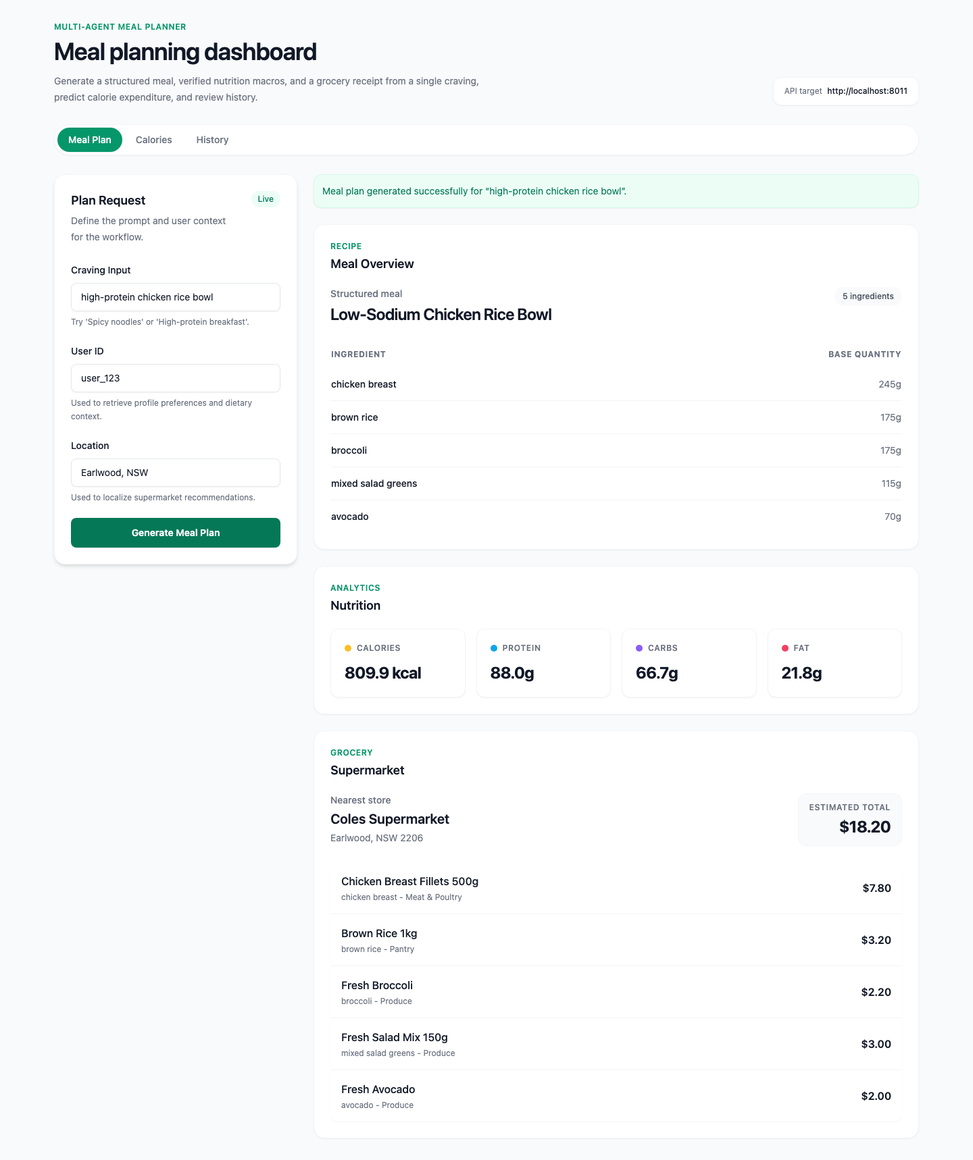
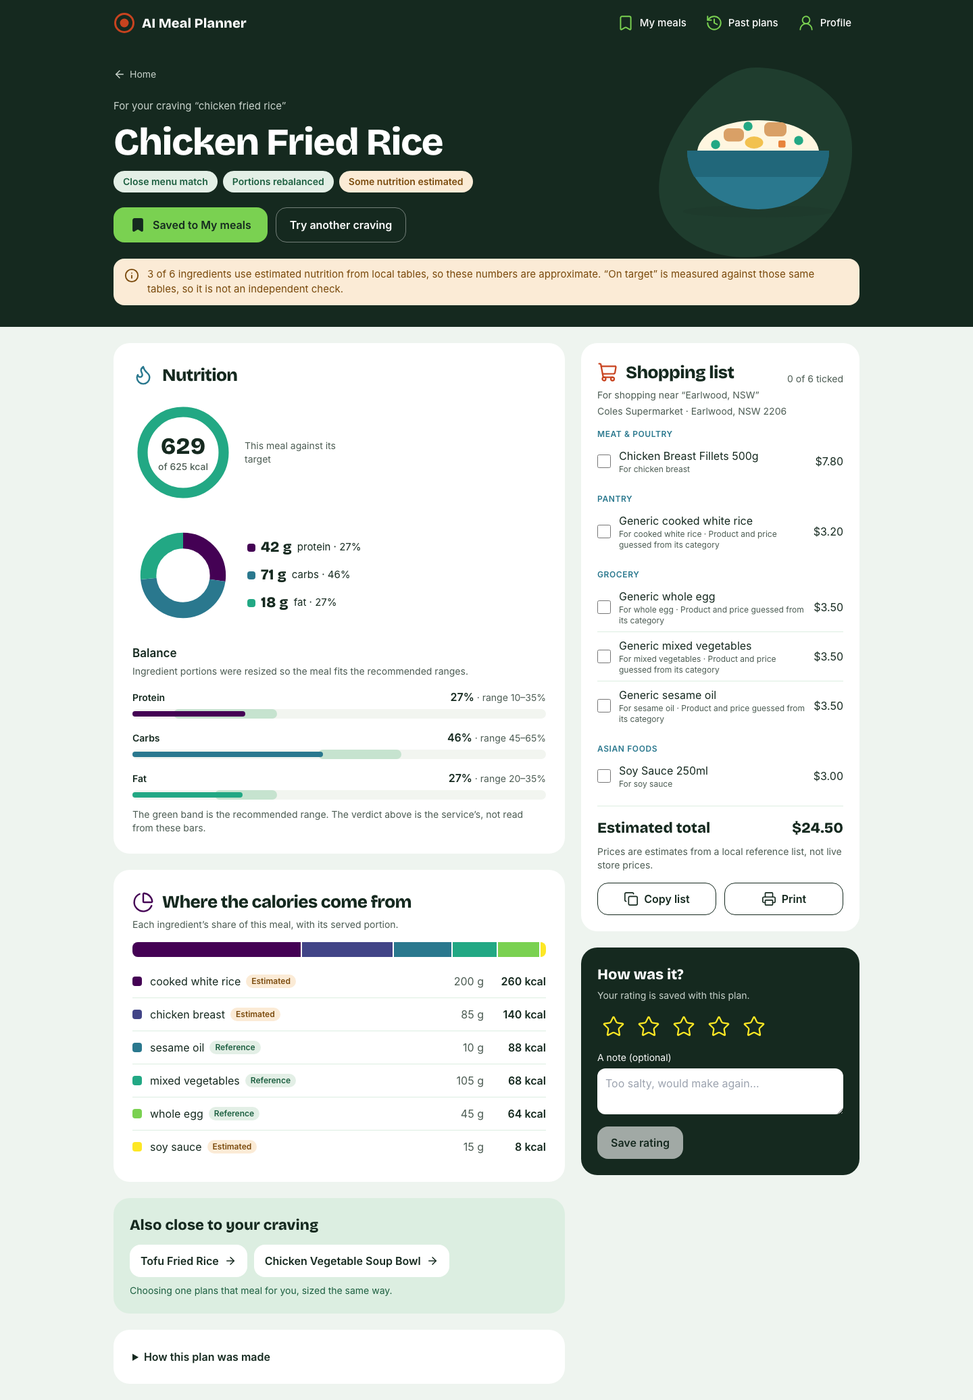
docs: React is the main app; Flat kitchen design and DEC-36/37

diff --git a/frontend/src/components/ui/EmptyState.jsx b/frontend/src/components/ui/EmptyState.jsx
@@ -2,19 +2,19 @@ import SparkleIcon from './SparkleIcon'
 
 function EmptyState({ isLoading, loadingTitle, loadingBody, idleTitle, idleBody }) {
   return (
-    <section className="flex min-h-[420px] items-center justify-center rounded-2xl border border-gray-100 bg-white p-8 shadow-sm">
+    <section className="flex min-h-[420px] items-center justify-center rounded-3xl border border-transparent bg-white p-8">
       <div className="mx-auto max-w-md text-center">
-        <div className="mx-auto flex h-14 w-14 items-center justify-center rounded-2xl bg-emerald-50 text-emerald-600 shadow-sm">
+        <div className="mx-auto flex h-14 w-14 items-center justify-center rounded-2xl bg-tint text-carbs">
           {isLoading ? (
-            <span className="h-6 w-6 animate-spin rounded-full border-2 border-emerald-600 border-t-transparent" />
+            <span className="h-6 w-6 animate-spin rounded-full border-2 border-carbs border-t-transparent" />
           ) : (
             <SparkleIcon />
           )}
         </div>
-        <h2 className="mt-5 text-xl font-semibold text-gray-900">
+        <h2 className="mt-5 text-xl font-semibold text-ink">
           {isLoading ? loadingTitle : idleTitle}
         </h2>
-        <p className="mt-3 text-sm leading-6 text-gray-500">{isLoading ? loadingBody : idleBody}</p>
+        <p className="mt-3 text-sm leading-6 text-muted">{isLoading ? loadingBody : idleBody}</p>
       </div>
     </section>
   )

diff --git a/frontend/src/components/ui/InputField.jsx b/frontend/src/components/ui/InputField.jsx
@@ -7,12 +7,12 @@ function InputField({ error, helperText, label, ...inputProps }) {
   const describedBy = [error && errorId, helperText && helperId].filter(Boolean).join(' ')
   return (
     <label className="block">
-      <span className="text-sm font-medium text-gray-900">{label}</span>
+      <span className="text-sm font-medium text-ink">{label}</span>
       <input
         aria-describedby={describedBy || undefined}
         aria-invalid={error ? 'true' : undefined}
-        className={`mt-2 w-full rounded-lg border bg-white px-3.5 py-2.5 text-sm text-gray-900 shadow-sm outline-none transition-all duration-200 placeholder:text-gray-400 focus:border-transparent focus:ring-2 focus:ring-emerald-500 ${
-          error ? 'border-accent-text' : 'border-gray-200'
+        className={`mt-2 w-full rounded-lg border bg-white px-3.5 py-2.5 text-sm text-ink outline-none transition-all duration-200 placeholder:text-muted focus:border-transparent focus:ring-2 focus:ring-ink ${
+          error ? 'border-accent-text' : 'border-line'
         }`}
         {...inputProps}
       />
@@ -22,7 +22,7 @@ function InputField({ error, helperText, label, ...inputProps }) {
         </span>
       )}
       {helperText && (
-        <span className="mt-1.5 block text-xs leading-5 text-gray-500" id={helperId}>
+        <span className="mt-1.5 block text-xs leading-5 text-muted" id={helperId}>
           {helperText}
         </span>
       )}

diff --git a/frontend/src/components/ui/SelectField.jsx b/frontend/src/components/ui/SelectField.jsx
@@ -1,9 +1,9 @@
 function SelectField({ helperText, label, options, ...selectProps }) {
   return (
     <label className="block">
-      <span className="text-sm font-medium text-gray-900">{label}</span>
+      <span className="text-sm font-medium text-ink">{label}</span>
       <select
-        className="mt-2 w-full rounded-lg border border-gray-200 bg-white px-3.5 py-2.5 text-sm text-gray-900 shadow-sm outline-none transition-all duration-200 focus:border-transparent focus:ring-2 focus:ring-emerald-500"
+        className="mt-2 w-full rounded-lg border border-line bg-white px-3.5 py-2.5 text-sm text-ink outline-none transition-all duration-200 focus:border-transparent focus:ring-2 focus:ring-ink"
         {...selectProps}
       >
         {options.map((option) => (
@@ -12,7 +12,7 @@ function SelectField({ helperText, label, options, ...selectProps }) {
           </option>
         ))}
       </select>
-      {helperText && <span className="mt-1.5 block text-xs leading-5 text-gray-500">{helperText}</span>}
+      {helperText && <span className="mt-1.5 block text-xs leading-5 text-muted">{helperText}</span>}
     </label>
   )
 }

diff --git a/frontend/src/components/ui/SectionCard.jsx b/frontend/src/components/ui/SectionCard.jsx
@@ -1,13 +1,13 @@
 function SectionCard({ eyebrow, title, children, className = '' }) {
   return (
-    <section className={`rounded-2xl border border-gray-100 bg-white p-6 shadow-sm ${className}`}>
+    <section className={`rounded-3xl border border-transparent bg-white p-6 ${className}`}>
       <div>
         {eyebrow && (
-          <p className="text-xs font-semibold uppercase tracking-wider text-emerald-600">
+          <p className="text-xs font-semibold uppercase tracking-wider text-carbs">
             {eyebrow}
           </p>
         )}
-        <h2 className="mt-1 text-lg font-semibold text-gray-900">{title}</h2>
+        <h2 className="mt-1 text-lg font-semibold text-ink">{title}</h2>
       </div>
       <div className="mt-5">{children}</div>
     </section>

diff --git a/frontend/src/components/ui/StatCard.jsx b/frontend/src/components/ui/StatCard.jsx
@@ -1,11 +1,11 @@
 function StatCard({ dot, label, value }) {
   return (
-    <div className="rounded-xl border border-gray-100 bg-white p-5 shadow-sm">
+    <div className="rounded-xl border border-transparent bg-white p-5">
       <div className="flex items-center gap-2">
         <span className={`h-2.5 w-2.5 rounded-full ${dot}`} />
-        <p className="text-xs font-semibold uppercase tracking-wider text-gray-500">{label}</p>
+        <p className="text-xs font-semibold uppercase tracking-wider text-muted">{label}</p>
       </div>
-      <p className="mt-3 text-2xl font-bold tracking-tight text-gray-900">{value}</p>
+      <p className="mt-3 text-2xl font-bold tracking-tight text-ink">{value}</p>
     </div>
   )
 }

diff --git a/frontend/src/features/calories/CaloriesTab.jsx b/frontend/src/features/calories/CaloriesTab.jsx
@@ -62,9 +62,9 @@ function CaloriesTab() {
 
   return (
     <div className="grid gap-6 lg:grid-cols-[360px_1fr]">
-      <aside className="rounded-2xl border border-gray-100 bg-white p-6 shadow-md lg:sticky lg:top-6 lg:self-start">
-        <h2 className="text-lg font-semibold text-gray-900">Calorie Expenditure</h2>
-        <p className="mt-1 text-sm leading-6 text-gray-500">
+      <aside className="rounded-3xl border border-transparent bg-white p-6 lg:sticky lg:top-6 lg:self-start">
+        <h2 className="text-lg font-semibold text-ink">Calorie Expenditure</h2>
+        <p className="mt-1 text-sm leading-6 text-muted">
           Calls the promoted Kaggle calorie model artifact.
         </p>
 

diff --git a/frontend/src/components/ui/SubmitButton.jsx b/frontend/src/components/ui/SubmitButton.jsx
@@ -1,7 +1,7 @@
 function SubmitButton({ isLoading, idleLabel, loadingLabel, disabled }) {
   return (
     <button
-      className="flex w-full items-center justify-center gap-2 rounded-lg bg-emerald-600 px-4 py-3 text-sm font-semibold text-white shadow-sm transition-colors duration-200 hover:bg-emerald-700 disabled:cursor-not-allowed disabled:bg-gray-300"
+      className="flex w-full items-center justify-center gap-2 rounded-lg bg-ink px-4 py-3 text-sm font-semibold text-white transition-colors duration-200 hover:bg-ink/90 disabled:cursor-not-allowed disabled:bg-gray-300"
       disabled={disabled}
       type="submit"
     >

diff --git a/frontend/src/components/ui/SuccessBanner.jsx b/frontend/src/components/ui/SuccessBanner.jsx
@@ -1,6 +1,6 @@
 function SuccessBanner({ children }) {
   return (
-    <div className="rounded-xl border border-emerald-100 bg-emerald-50 p-3 text-sm leading-6 text-emerald-700 shadow-sm">
+    <div className="rounded-xl border border-emerald-100 bg-tint p-3 text-sm leading-6 text-carbs">
       {children}
     </div>
   )

diff --git a/frontend/src/components/ui/ErrorBanner.jsx b/frontend/src/components/ui/ErrorBanner.jsx
@@ -1,6 +1,6 @@
 function ErrorBanner({ children }) {
   return (
-    <div className="rounded-xl border border-red-100 bg-red-50 p-3 text-sm leading-6 text-red-700 shadow-sm">
+    <div className="rounded-xl border border-red-100 bg-red-50 p-3 text-sm leading-6 text-red-700">
       {children}
     </div>
   )

diff --git a/README.md b/README.md
@@ -1,6 +1,6 @@
 # AI Meal Planner
 
-![The meal planning dashboard: a craving becomes a structured meal with portioned ingredients](docs/assets/screenshots/react-hero.png)
+![The React kitchen app: say what you crave and get one meal with clear nutrition and a shopping list](docs/assets/screenshots/react-hero.png)
 
 ![Python](https://img.shields.io/badge/Python-3.11+-3776AB?style=flat&logo=python&logoColor=white)
 ![FastAPI](https://img.shields.io/badge/FastAPI-Backend-009688?style=flat&logo=fastapi&logoColor=white)
@@ -11,7 +11,7 @@
 
 AI Meal Planner is a multi-agent meal planning application that estimates calorie needs, recommends meals from user preferences, verifies nutrition, and prepares a practical shopping-list estimate.
 
-The current phase focuses on a reliable FastAPI service, ML-ready agent modules, and two client experiences for testing and demonstration: a deployed Streamlit app and a React dashboard, both covering meal planning, calorie prediction, and history/saved-meal review.
+The current phase focuses on a reliable FastAPI service, ML-ready agent modules, and two clients. The React app is the main one: a personal kitchen app where you say what you crave, get one meal with Viridis nutrition charts and a shopping list, and save, rate and revisit your meals. The deployed Streamlit app is the simple backup demo.
 
 **Live Demo:** https://tuannm3812-ai-meal-planner.streamlit.app/
 
@@ -19,7 +19,7 @@ The current phase focuses on a reliable FastAPI service, ML-ready agent modules,
 
 - Build a dependable API foundation for meal generation, calorie prediction, nutrition verification, feedback, and shopping-list estimates
 - Deploy and validate the product through Streamlit while the core recommendation workflow matures
-- Streamlit and React now cover the same core workflow (meal plan, calorie prediction, history); harden the React dashboard toward a production interface next
+- React is the main app (DEC-37); Streamlit stays as the simple backup demo
 
 ## 2. Features
 
@@ -33,15 +33,15 @@ The current phase focuses on a reliable FastAPI service, ML-ready agent modules,
 - File-backed user profiles and meal history for early pilots
 - Supermarket product mapping with estimated shopping cost and confidence metadata
 - Cached USDA/FatSecret nutrition lookups with automatic per-provider cooldown after repeated failures, so a slow or misconfigured provider degrades gracefully instead of stalling every request
-- Streamlit demo and React dashboard, both covering meal plan generation, calorie prediction, and meal/feedback history
+- A React kitchen app (home, plan page with charts and runners-up, save and rate, My meals, Past plans, profile remembered on the device) and a simpler Streamlit backup demo
 
 ### Screenshots
 
-| React dashboard: meal plan | React dashboard: calorie prediction |
+| React app: your plan | React app: profile and calorie estimate |
 | --- | --- |
-| ![React meal plan: structured meal, verified macros and a priced grocery list](docs/assets/screenshots/react-meal-plan.png) | ![React calorie prediction from the promoted Kaggle model](docs/assets/screenshots/react-calories.png) |
-| **React dashboard: history** | **Streamlit demo (backend in-process, no API server)** |
-| ![React history, labelled as not persisted](docs/assets/screenshots/react-history.png) | ![Streamlit demo with retrieval notes and the RAG retrieval contract](docs/assets/screenshots/streamlit-demo.png) |
+| ![React plan page: the meal, a calorie ring, a Viridis macro donut, where the calories come from and a shopping checklist](docs/assets/screenshots/react-meal-plan.png) | ![React profile page with the calorie estimate from the promoted Kaggle model](docs/assets/screenshots/react-calories.png) |
+| **React app: home with My meals and Past plans** | **Streamlit backup demo (backend in-process, no API server)** |
+| ![React home: a big craving search, saved meals and past plans as cards](docs/assets/screenshots/react-history.png) | ![Streamlit demo with retrieval notes and the RAG retrieval contract](docs/assets/screenshots/streamlit-demo.png) |
 
 Captured from a local stack, keyless and offline, with `scripts/capture_screenshots.py`. Number fields follow the capture machine's region setting.
 
@@ -65,7 +65,7 @@ User profile + craving
 -> Optional Gemini final explanation when ENABLE_GEMINI_ADAPTATION=1
 -> NutritionVerificationAgent verifies ingredients through USDA/FatSecret/local references
 -> SupermarketAgent maps ingredients to local grocery estimates
--> Streamlit renders the response for testing and demos
+-> the React app (main) or Streamlit (backup demo) renders the response
 ```
 
 As of 2026-09-10 the calorie prediction step runs only via `/calorie-expenditure/predict`; `/generate-meal-plan` does not yet consume its budget — see [`docs/2_architecture.md`](docs/2_architecture.md) and [`docs/4_next_steps.md`](docs/4_next_steps.md) §1.1.
@@ -122,7 +122,7 @@ See [`docs/2_architecture.md`](docs/2_architecture.md) and [`docs/0_coding_stand
 ### 6.1 Prerequisites
 
 - [uv](https://docs.astral.sh/uv/) — manages the Python version and dependencies
-- Optional: Node.js 20+ and npm for the React dashboard
+- Optional: Node.js 20+ and npm for the React app
 - Optional: Gemini, USDA, and FatSecret API keys for live external integrations
 
 `uv` installs and pins Python 3.11 itself, so no system Python is required.
@@ -187,9 +187,9 @@ The deployed Streamlit Community Cloud demo is available at:
 https://tuannm3812-ai-meal-planner.streamlit.app/
 ```
 
-### 6.4 React Dashboard
+### 6.4 React App (main)
 
-The React dashboard covers the same three workflows as the Streamlit app: meal plan generation, calorie prediction, and meal/feedback history, with the FastAPI backend as its only dependency (no demo mode).
+The React app is the main client (DEC-37): a home page with a craving search, a plan page with nutrition charts, runners-up, a shopping checklist, saving and rating, My meals, Past plans and a profile remembered on this device (DEC-36). The FastAPI backend is its only dependency (no demo mode). Saving, rating and history need a local API; on a hosted API they are hidden and planning still works.
 
 If the backend is not reachable at `localhost:8000`, copy `frontend/.env.example`
 to `frontend/.env.local` and adjust it before starting the dev server.
@@ -328,7 +328,7 @@ Send the raw key as `X-API-Key`. The scopes are `plans:write`, `feedback:write` 
 
 **Rate limit.** `RATE_LIMIT_PER_MINUTE` (default 60) is a fixed one-minute window per `client_id`, held **in each instance's memory**. With N instances a client can make up to N times the limit. It is a per-instance safeguard, not an account-wide quota. Exceeding it returns `429 rate_limited` with `Retry-After`.
 
-**Open local mode.** With `API_KEYS` empty the API runs unauthenticated under a single `local` namespace and logs a warning at startup; this is how the React dashboard works in development, since a key placed in a `VITE_*` variable would be baked into the public bundle. `APP_ENV=production` with no keys refuses to start, so a hosted deployment cannot be open by accident. Calling a keyed API from the React dashboard is out of scope for v1.
+**Open local mode.** With `API_KEYS` empty the API runs unauthenticated under a single `local` namespace and logs a warning at startup; this is how the React app works in development, since a key placed in a `VITE_*` variable would be baked into the public bundle. `APP_ENV=production` with no keys refuses to start, so a hosted deployment cannot be open by accident. Calling a keyed API from the React app is out of scope for v1.
 
 **Telemetry: allowlisted metadata only.** Traces and logs follow one rule: only allowlisted operational metadata leaves the process.
 - **Spans:** each request is traced as one span plus a child per workflow stage. Spans carry statuses, counts, ids and route templates from a fixed allowlist in `backend/app/core/telemetry.py`. They never carry the `user_id`, craving, health conditions, dietary preferences, location, biometrics or values derived from them, ingredient or meal names, or exception messages.
@@ -355,7 +355,7 @@ uv run ruff format --check .
 uv run pytest
 ```
 
-Build and lint the React dashboard:
+Build and lint the React app:
 
 ```bash
 cd frontend
@@ -404,4 +404,4 @@ The full prioritised backlog, including the deliberate gaps, is in
 - Use saved meals, likes, dislikes, and ratings as ranking features in retrieval
 - Move local JSON stores for history, feedback, and profiles to a managed database
 - Improve macro-target balancing, serving-size normalization, and ingredient matching
-- Add authentication and persistent accounts to the React dashboard as it moves toward a production interface
+- Add authentication and persistent accounts to the React app as it moves toward a production interface

diff --git a/DESIGN.md b/DESIGN.md
@@ -5,10 +5,12 @@ poster, the LinkedIn image, the slide deck and any page or document that shows
 the product. If a piece of work departs from this file, change the work or
 change this file. Don't let them drift.
 
-The identity is **Kitchen green**. Colour values live in
+The identity is **Kitchen green**, in its "Flat kitchen" edition since 22 November
+2026 (DEC-37). Colour values live in
 [`frontend/tailwind.config.js`](frontend/tailwind.config.js); if the two ever
 differ, that file wins and this one gets fixed. The app's flow and screens are
-in [`docs/8_design.md`](docs/8_design.md) (DEC-29). What the poster and deck
+in [`docs/8_design.md`](docs/8_design.md) (DEC-29) and the kitchen-app spec,
+[`docs/superpowers/specs/2026-11-22-react-kitchen-app-design.md`](docs/superpowers/specs/2026-11-22-react-kitchen-app-design.md). What the poster and deck
 say is in [`docs/showcase/`](docs/showcase/README.md), which also holds the strict
 [slide](docs/showcase/slides/DESIGN.md) and [poster](docs/showcase/DESIGN.md) standards.
 
@@ -35,7 +37,8 @@ crave. Get a meal that fits you.**
 
 | Token | Hex | Role |
 | --- | --- | --- |
-| `ground` | #F6F7F2 | Page and slide background |
+| `ground` | #EEF4EF | App page background (light green) |
+| `tint` | #DCEEE1 | App section tints and illustration grounds |
 | `surface` | #FFFFFF | Cards and readable surfaces |
 | `ink` | #15291F | Text, headings, dark panels |
 | `muted` | #4B5B52 | Supporting text |
@@ -43,28 +46,35 @@ crave. Get a meal that fits you.**
 | `accent` | #C8431F | Tomato: logo, primary action, the one highlight |
 | `accent-text` | #B23A17 | Small tomato text on light backgrounds |
 | `success-bg` / `success-fg` | #E3EFE6 / #1B5E3F | Positive result, always with a text label |
-| `protein` | #2F6FAB | Protein data only |
-| `carbs` | #9A6A12 | Carbohydrate data only |
-| `fat` | #7A4E9C | Fat data only |
+| `estimate-bg` / `estimate-fg` | #FBEBD6 / #7A4A0C | Estimate badges and notices |
+| `protein` | #440154 | Protein data only (Viridis) |
+| `carbs` | #2A788E | Carbohydrate data only (Viridis) |
+| `fat` | #22A884 | Fat data only (Viridis) |
+| `viridis-1` to `viridis-6` | #440154 #414487 #2A788E #22A884 #7AD151 #FDE725 | Categorical chart series, in order |
 
-Aim for about 70% ground and white, 20% ink, under 10% tomato. Macro colours
-never mean anything but their macro. Green never means medically safe. Tomato
-never means an error. Estimate badges use #FBEBD6 with #7A4A0C text. Outside the app,
-#ECEFE8 is allowed for neutral tracks and badges, #EEF4EF for panels, #9AA5A0 for baseline
-results and #C9D3CC for secondary text on `ink`. The showcase uses a white canvas.
+Aim for about 70% ground and white, 20% ink, under 10% tomato. Charts use Viridis,
+the owner's choice: the macro colours are its three darker stops, each at least 3:1
+on white, and a categorical series takes `viridis-1` onward in order, always with a
+text label. `viridis-5` and `viridis-6` are fills on `ink` or next to a label, never
+text on white. On `ink`, protein uses #B9A3C8 so it stays visible. Macro colours never
+mean anything but their macro. Green never means medically safe. Tomato never means an
+error. #C9D3CC is secondary text on `ink`. The showcase keeps its own palette: #F6F7F2
+for slide grounds, #ECEFE8 for neutral tracks and badges, #9AA5A0 for baseline results,
+and a white canvas.
 
 ## 4. Type
 
-- **App:** Bricolage Grotesque for headlines and big numbers; Inter for everything read.
+- **App:** Bricolage Grotesque ExtraBold (800) for headlines and big numbers; Inter for
+  everything read.
 - **Showcase (deck, poster, LinkedIn image):** Google Sans, chosen by Mike for a professional
   portfolio look, with Google Sans Code for code spans.
 - No other typefaces. Authentic app screenshots keep their own type.
 
 | Role | App |
 | --- | --- |
-| Title | 32–40 px, 700 |
-| Big number | 32–40 px, 700 |
-| Section heading | 22–24 px, 700 |
+| Title | 40–58 px, 800 |
+| Big number | 28–40 px, 800 |
+| Section heading | 22–26 px, 800 |
 | Body | 16 px |
 | Caption or label | 12–14 px |
 
@@ -86,17 +96,29 @@ Put it beside the name "AI Meal Planner". Use it alone only where space is tiny.
 - Leave a quarter of its width clear on every side; never under 24 px.
 - It stands for a planned meal, not a weekly calendar feature, so don't imply one.
 
-There is no icon set. Numbered ink circles do that job. If a piece truly needs
-pictograms, use one outline set, 1.5 px stroke, in ink.
+**Icons:** the app uses one outline set, [`lucide-react`](https://lucide.dev) (ISC), at
+a 1.6–2 px stroke and 24–36 px. Icons sit on the page with no tile or circle behind
+them, in ink or a Viridis colour, always next to a word unless the control has an
+accessible name. Slides and posters keep numbered ink circles.
+
+**Illustrations:** flat food drawings, one for each kind of dish (rice bowl, stir fry,
+noodles, pasta, curry, soup, salad, taco or wrap, eggs and toast, oats, plate, bowl).
+They use no outlines and no gradients, and they are hidden from screen readers. They
+stand for a kind of dish, never a photo of the meal; the service has no photos. One
+soft blob shape may sit behind a banner illustration.
 
 ## 6. Layout and components
 
 - Spacing steps: 8, 12, 16, 24, 32, 48 px. Keep related things close.
-- Cards: white, a 1 px `line` border, 16–20 px corners, no heavy shadows, no
-  gradients, no accent stripes along an edge, no rules under titles.
-- Dark `ink` panels carry the one headline number on a surface.
+- Cards: white with no border on the green ground in the app (a 1 px `line` border on
+  the showcase's white canvas), 24 px corners, no heavy shadows, no gradients, no
+  accent stripes along an edge, no rules under titles.
+- Dark `ink` banners open each app page and carry its headline; dark `ink` panels carry
+  the one headline number on a surface.
 - Badges: short text label, never colour alone.
-- Charts: one series colour unless colour means something; label values directly.
+- Charts: one series colour unless colour means something; label values directly. The
+  app's plan page draws a calorie ring, a macro donut, range bars over a green band and a
+  stacked bar of where the calories come from, all plain SVG.
 
 ## 7. Output specs
 

diff --git a/docs/3_decisions.md b/docs/3_decisions.md
@@ -647,3 +647,48 @@ Low-Sodium Chicken Rice Bowl. The median calorie deviation moves from 0.4% to 0.
 
 Rules out generating recipes with Gemini. Each recipe here was written and checked
 by hand against the targets, and the corpus stays a curated, reviewable file.
+
+## 2026-11-22 — React becomes the main app
+
+### DEC-36 — The React app remembers the person on this device
+
+Mike chose a personal kitchen app: you come back to your saved meals and past plans,
+which only works if the app knows you. There are no accounts. The browser now keeps
+one `localStorage` key, `aimp.v1`, holding the opaque user ID, the profile and where
+the person shops. Nothing else is stored: no plans, no ratings, no shopping ticks.
+
+The Profile page says so, and "Forget me on this device" clears the key after a
+confirmation. Server history is not touched, and the confirmation says that too.
+Storage that is blocked or full is caught, and the app works for the visit and says it
+can't remember. Health fields still never go in a URL.
+
+Supersedes the "never in `localStorage`" line of DEC-29 (docs/8_design.md §3.1). Rules
+out accounts for now: they need backend work (docs/4_next_steps.md §7.7).
+
+### DEC-37 — React is the main app, rebuilt as a kitchen app in "Flat kitchen"
+
+Mike judged the React plan screen to look like the Streamlit app. React becomes the main
+app, and Streamlit stays as the simple backup demo, unchanged. Over six questions he
+chose:
+
+- a kitchen app (home, plan page, My meals, Past plans, Profile) over a wizard;
+- save, rate, a shopping checklist and the retrieval's runners-up on every plan;
+- a home page led by one big craving search;
+- the "Flat kitchen" look: Bricolage Grotesque 800 and Inter, flat dish illustrations,
+  a light green ground, and white cards with no border.
+
+He asked for Viridis in charts, less grey, and bigger icons with no tiles. The macro
+colours became Viridis stops #440154, #2A788E and #22A884 (each at least 3:1 on white),
+and the plan page draws a calorie ring, a macro donut, range bars and a stacked bar of
+where the calories come from, all in plain SVG with no chart library. Icons come from
+`lucide-react` (ISC), and routing from `react-router-dom` (MIT).
+
+Constraints kept: feedback is append-only, so a save can't be undone (an unsave is a
+backend change). A stored plan reopens from history as it was, never re-planned. A
+hosted server's 501 hides saving and rating, but planning still works. A first visit
+still makes no network call before the person plans. A returning visit reads its own
+saved meals and history on Home.
+
+Rules out meal photos (the service has none, and a stock photo would show a different
+dish) and a chart library (four small charts don't need one).
+
